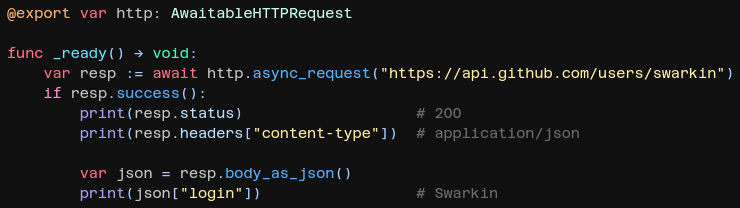
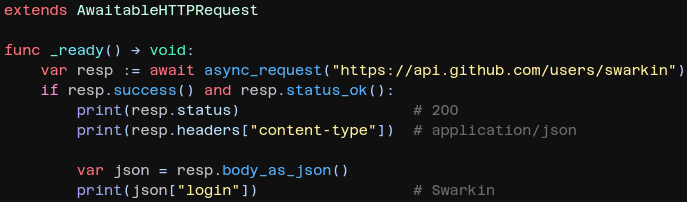
Update README.md (#11)
* Update README.md

* Clarify usage of the addon

* Push Version to 2.2.0

---------

diff --git a/README.md b/README.md
@@ -1,4 +1,4 @@
-<img alt="project icon: syntax-highlighted text reading 'await http dot request()'" src="addons/awaitable_http_request/icon.png" width="64">
+<img alt="project icon: syntax-highlighted text reading 'await http dot request'" src="addons/awaitable_http_request/icon.png" width="64">
 
 ## AwaitableHTTPRequest Node for Godot 4
 
@@ -6,19 +6,17 @@ This addon makes HTTP requests much more convenient to use by introducing the `a
 
 ### Usage
 
-Here is an example with minimal error-handling:
-
 ```py
-@export var http: AwaitableHTTPRequest
+extends AwaitableHTTPRequest
 
 func _ready() -> void:
-    var resp := await http.async_request("https://api.github.com/users/swarkin")
-    if resp.success():
-        print(resp.status)                   # 200
-        print(resp.headers["content-type"])  # application/json
+	var resp := await async_request("https://api.github.com/users/swarkin")
+	if resp.success() and resp.status_ok():
+		print(resp.status)                   # 200
+		print(resp.headers["content-type"])  # application/json
 
-        var json = resp.body_as_json()
-        print(json["login"])                 # Swarkin
+		var json = resp.body_as_json()
+		print(json["login"])                 # Swarkin
 ```
 
 See `examples.tscn` for more.
